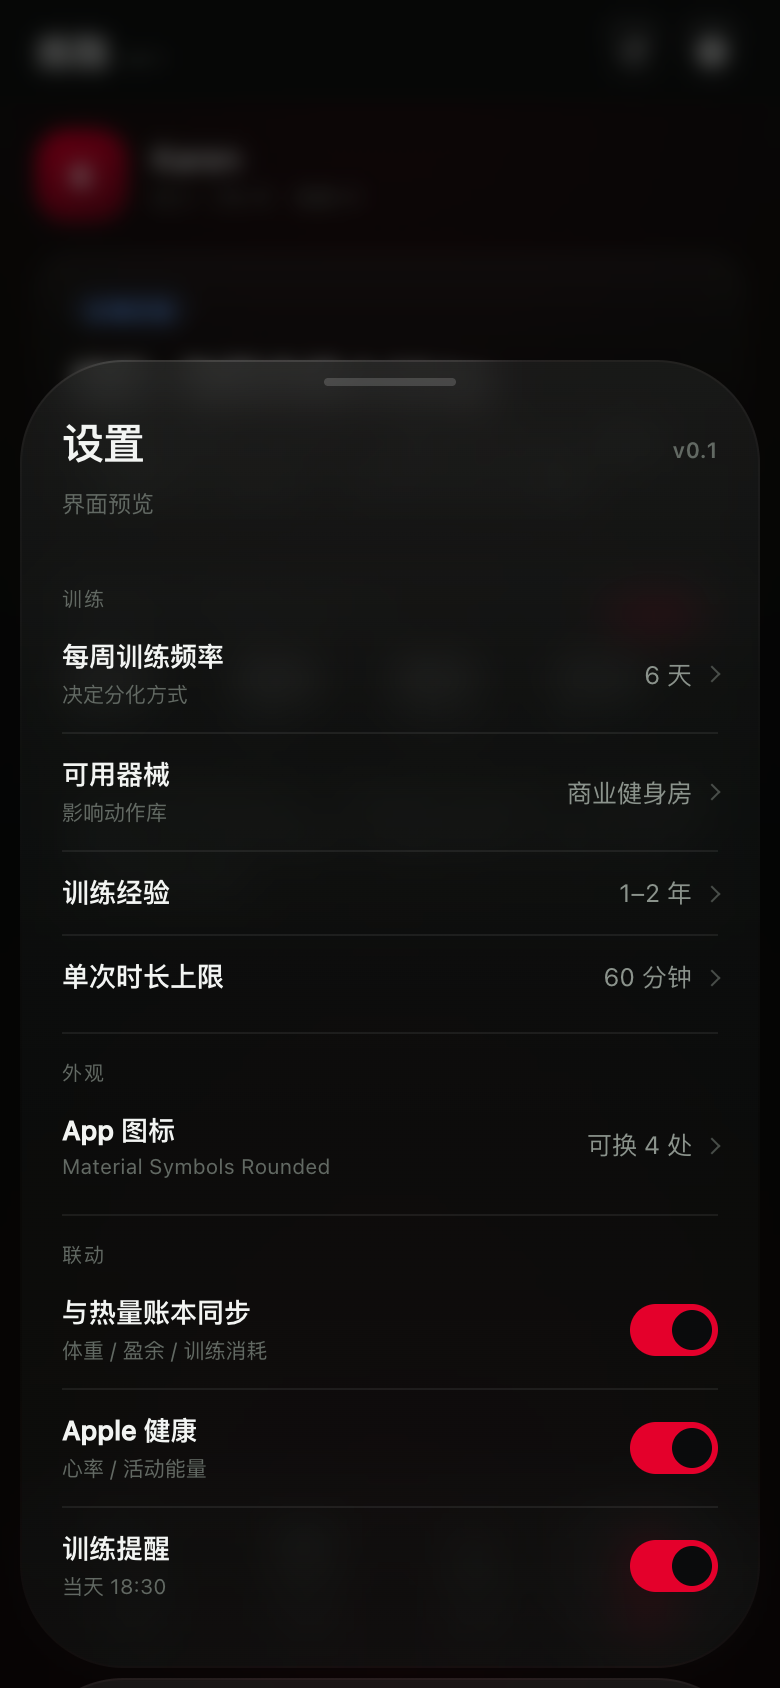
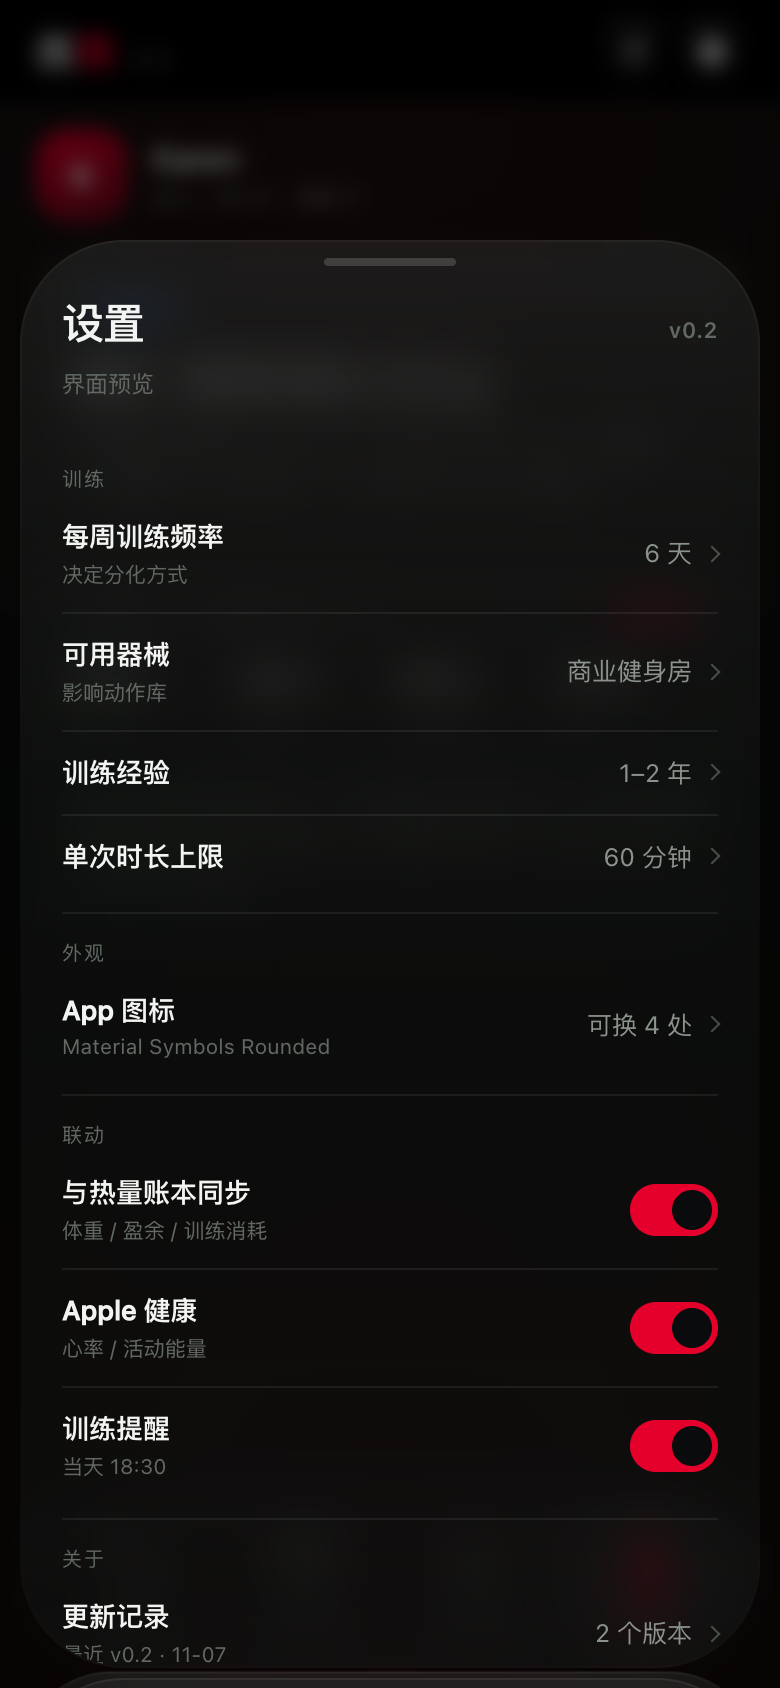
卡牌统一(设置/训练/更新记录 同一套 370/10/52/66x4/下滑关闭)；新增更新记录 v0.1-v0.2；顶栏 #000

diff --git a/index.html b/index.html
@@ -611,6 +611,15 @@ h1 .en{font-size:14px;font-weight:600;letter-spacing:.16em;color:var(--muted2)}
 .nowex .m{font-size:11.5px;color:var(--muted);margin-top:5px}
 .sheet .cta+.cta{margin-top:9px}
 
+/* 更新记录 */
+.relitem{padding:13px 0;border-bottom:1px solid var(--line)}
+.relitem:last-child{border-bottom:0}
+.relhd{display:flex;align-items:baseline;gap:8px}
+.relhd b{font-size:13.5px;font-weight:650}
+.relhd i{font-style:normal;font-size:10px;color:var(--muted2)}
+.relitem ul{margin:7px 0 0;padding-left:16px;font-size:11.5px;color:var(--muted);line-height:1.75}
+.relitem li{margin-bottom:2px}
+
 /* 图标选择 */
 .islot{display:flex;align-items:center;gap:12px;padding:13px 0}
 .islot + .islot{border-top:1px solid var(--line)}
@@ -637,7 +646,7 @@ h1 .en{font-size:14px;font-weight:600;letter-spacing:.16em;color:var(--muted2)}
   <div class="screen">
 
     <div class="topbar">
-      <div class="brand">练<span>账</span><i class="btag">v0.1</i></div>
+      <div class="brand">练<span>账</span><i class="btag">v0.2</i></div>
       <div class="topactions">
         <button class="topbtn topicon" id="reloadTop" aria-label="强制更新" title="强制更新">
           <svg viewBox="0 -960 960 960" aria-hidden="true"><path d="M480-160q-134 0-227-93t-93-227q0-134 93-227t227-93q69 0 132 28.5T720-690v-70q0-17 11.5-28.5T760-800q17 0 28.5 11.5T800-760v200q0 17-11.5 28.5T760-520H560q-17 0-28.5-11.5T520-560q0-17 11.5-28.5T560-600h128q-32-56-87.5-88T480-720q-100 0-170 70t-70 170q0 100 70 170t170 70q68 0 124.5-34.5T692-367q8-14 22.5-19.5t29.5-.5q16 5 23 21t-1 30q-41 80-117 128t-169 48Z"/></svg>
@@ -950,7 +959,7 @@ h1 .en{font-size:14px;font-weight:600;letter-spacing:.16em;color:var(--muted2)}
     </div>
 
     <!-- 训练中弹层 -->
-    <div class="sheet float" id="trainSheet">
+    <div class="sheet" id="trainSheet">
       <div class="grab"></div>
       <div class="timerlab" id="timerLab">组间休息</div>
       <div class="timer" id="timer">00:00</div>
@@ -966,7 +975,7 @@ h1 .en{font-size:14px;font-weight:600;letter-spacing:.16em;color:var(--muted2)}
     <!-- 设置 -->
     <div class="sheet set" id="setSheet">
       <div class="grab"></div>
-      <div class="sh-hd"><h2>设置</h2><span class="vtag">v0.1</span></div>
+      <div class="sh-hd"><h2>设置</h2><span class="vtag">v0.2</span></div>
       <p class="hint">界面预览</p>
 
       <div class="setgroup">
@@ -989,6 +998,18 @@ h1 .en{font-size:14px;font-weight:600;letter-spacing:.16em;color:var(--muted2)}
         <div class="row"><div class="lab">训练提醒<small>当天 18:30</small></div><div class="sw"></div></div>
       </div>
 
+      <div class="setgroup">
+        <div class="setlabel">关于</div>
+        <div class="row" id="openRel"><div class="lab">更新记录<small>最近 v0.2 · 11-07</small></div><div class="val">2 个版本</div></div>
+      </div>
+
+    </div>
+
+    <!-- 更新记录 -->
+    <div class="sheet" id="relSheet">
+      <div class="grab"></div>
+      <div class="sh-hd"><h2>更新记录</h2><span class="vtag" id="relVer">v0.2</span></div>
+      <div id="relList"></div>
     </div>
 
     <!-- 图标选择弹层 -->
@@ -1274,6 +1295,7 @@ h1 .en{font-size:14px;font-weight:600;letter-spacing:.16em;color:var(--muted2)}
     openSheet('#aiSheet');
   });
   $('#openSet').addEventListener('click', function(){ openSheet('#setSheet'); });
+  $('#openRel').addEventListener('click', function(){ renderRel(); openSheet('#relSheet'); });
   $('#reloadTop').addEventListener('click', function(){ location.reload(); });
 
   $('#splitPick').addEventListener('click', function(e){
@@ -1463,9 +1485,9 @@ h1 .en{font-size:14px;font-weight:600;letter-spacing:.16em;color:var(--muted2)}
     box.innerHTML = html;
   })();
 
-  /* ---------- 弹层下滑关闭 ---------- */
-  (function(){
-    var sh = $('#setSheet'), startY = 0, dy = 0, dragging = false;
+  /* ---------- 弹层下滑关闭（热量账本同一套） ---------- */
+  function wireDragClose(sh){
+    var startY = 0, dy = 0, dragging = false;
     sh.addEventListener('touchstart', function(e){
       if (sh.scrollTop > 0) return;
       startY = e.touches[0].clientY; dragging = true; dy = 0;
@@ -1483,7 +1505,34 @@ h1 .en{font-size:14px;font-weight:600;letter-spacing:.16em;color:var(--muted2)}
       sh.style.transform = '';
       if (dy > 90) closeSheets();
     });
-  })();
+  }
+  ['#setSheet','#trainSheet','#relSheet'].forEach(function(sel){
+    var el = $(sel); if (el) wireDragClose(el);
+  });
+
+  /* ---------- 更新记录 ---------- */
+  var RELEASES = [
+    { v:'v0.2', d:'11-07', items:[
+      '设置卡改成贴底悬浮卡：左右/底 10、圆角 52、抓杆 66×4，支持下滑关闭',
+      '训练卡与设置卡统一同一套卡牌规格，同样支持下滑关闭',
+      '顶栏底色改成 #000，与状态栏同色，消除上下分层',
+      '今日头部去掉封面式大标题，改为「部位 + 时长 + 肌群」信息行',
+      '圆圈改为 4/6，下面加一周 7 点，能看出哪几天练了'
+    ]},
+    { v:'v0.1', d:'11-07', items:[
+      '首个界面预览：今日 / 计划 / 记录 / 我的',
+      '主题换成 Nike Red #E4002B，图标 me + FITNESS',
+      '分化可选 5 档（2/3/4/5/6 天），3 天档标「推荐」',
+      '训练记录改成组间休息倒计时'
+    ]}
+  ];
+  function renderRel(){
+    $('#relList').innerHTML = RELEASES.map(function(r){
+      return '<div class="relitem"><div class="relhd"><b>' + r.v + '</b><i>' + r.d + '</i></div><ul>' +
+        r.items.map(function(t){ return '<li>' + t + '</li>'; }).join('') + '</ul></div>';
+    }).join('');
+    $('#relVer').textContent = RELEASES[0].v;
+  }
 
   /* ---------- 图标选择 ---------- */
   $('#iconRow').addEventListener('click', function(){
